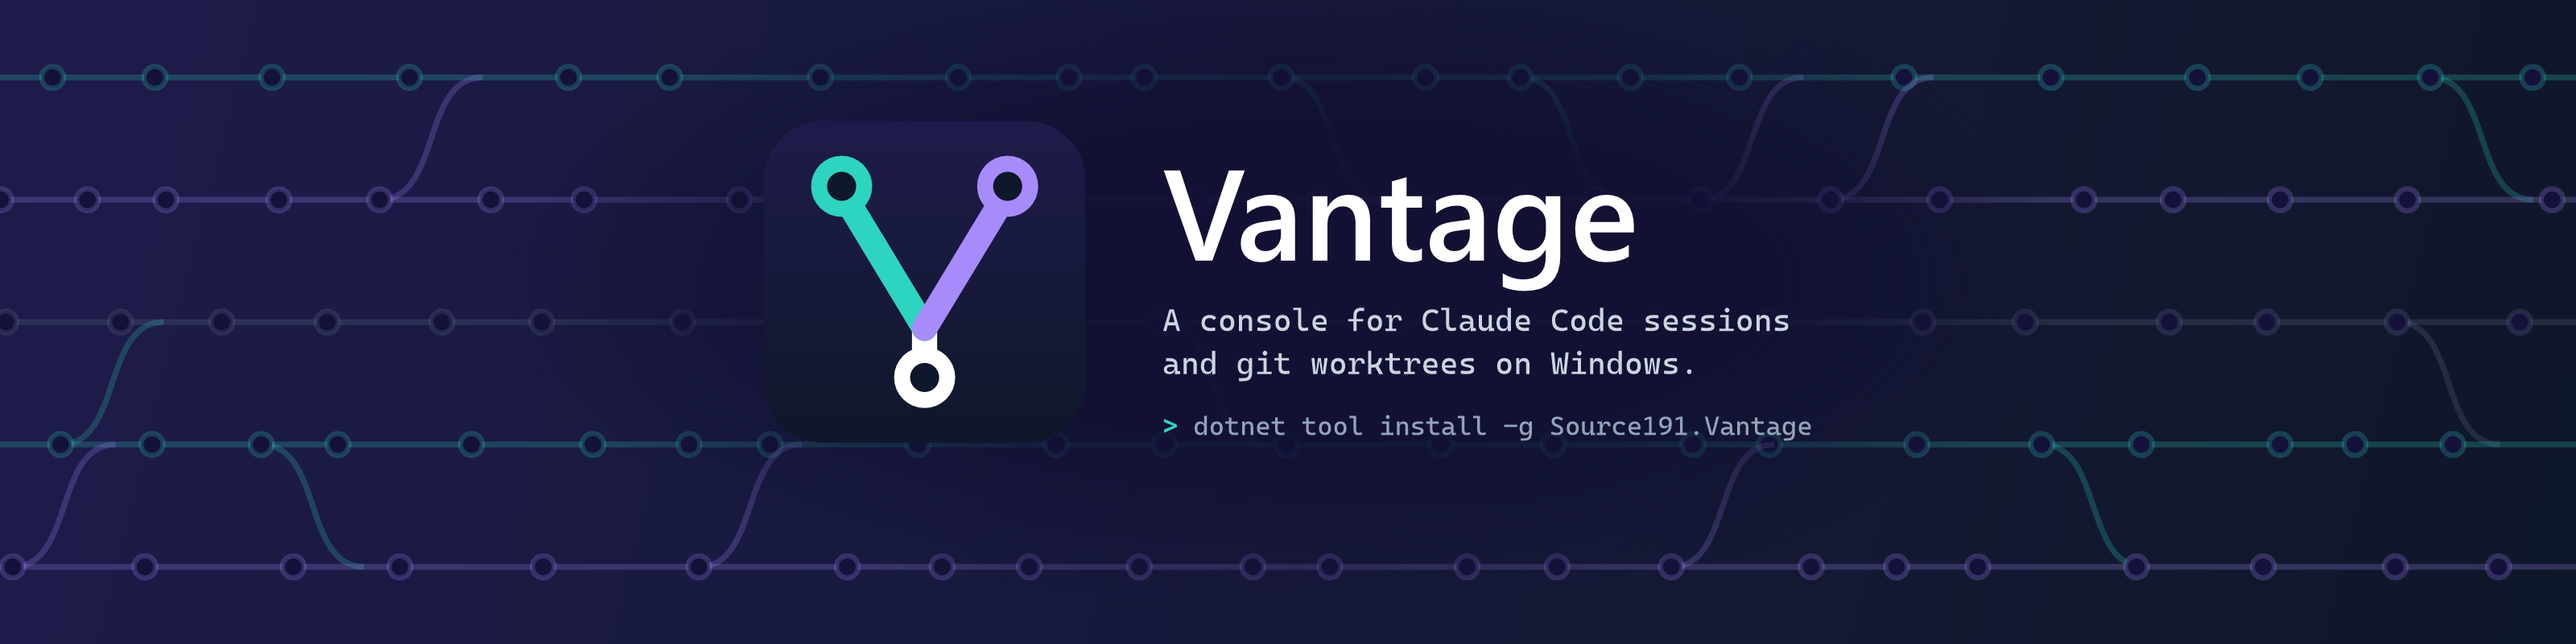
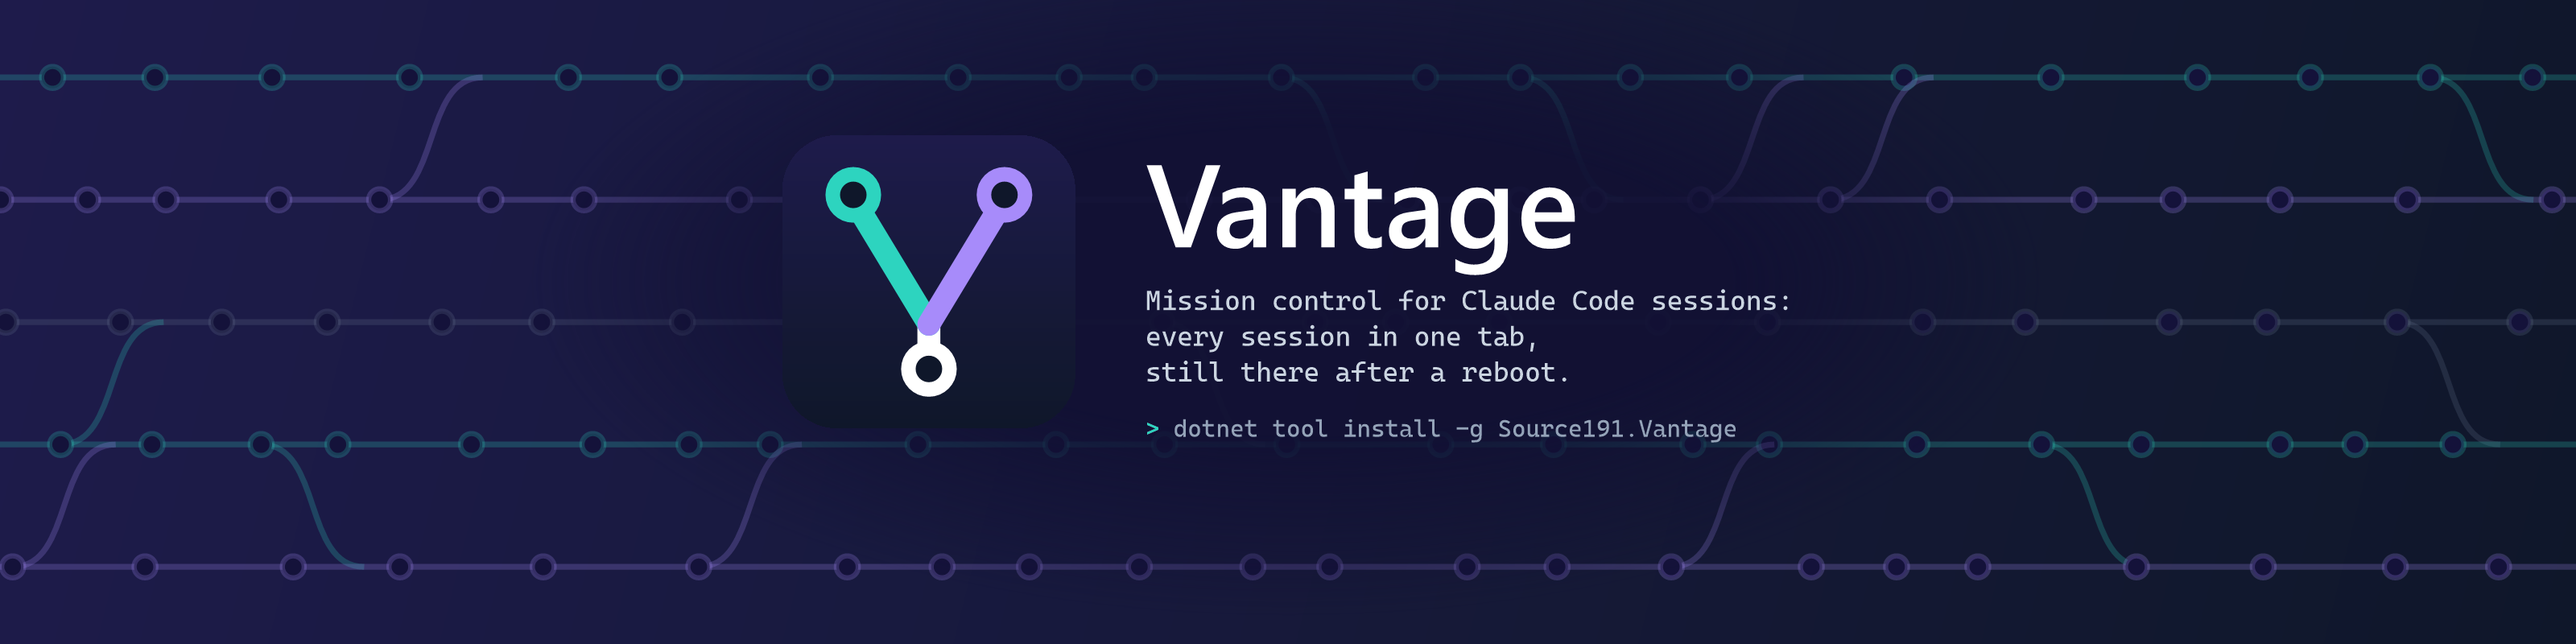
Draw the mission control tagline on the header images

diff --git a/openspec/changes/mission-control-tagline/tasks.md b/openspec/changes/mission-control-tagline/tasks.md
@@ -7,7 +7,7 @@
 
 ## 2. Header and README
 
-- [ ] 2.1 Let `tools\New-Header.ps1` draw any number of tagline lines, set the tagline over three lines, re-run it and verify the size checks pass, each image reads well by eye, and the cover still clears the Buy Me a Coffee card zone
+- [x] 2.1 Let `tools\New-Header.ps1` draw any number of tagline lines, set the tagline over three lines, re-run it and verify the size checks pass, each image reads well by eye, and the cover still clears the Buy Me a Coffee card zone
 - [ ] 2.2 Replace the README's opening line and paragraph with the introductory paragraph and update the banner's alt text; verify no copy of the old tagline is left outside `openspec\config.yaml`, `CLAUDE.md` and the archive
 
 ## Workflow follow-up
